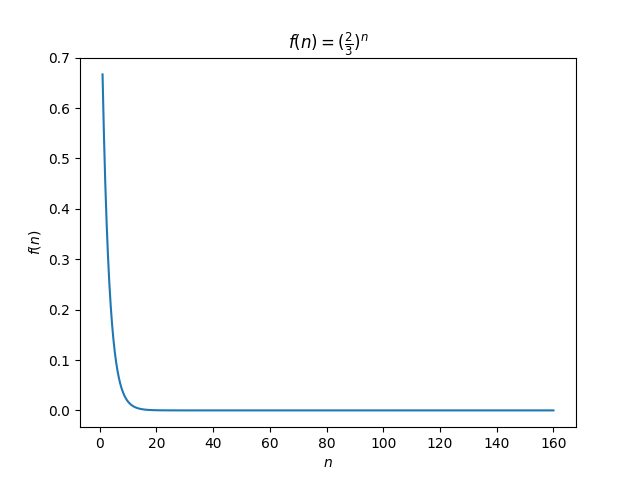
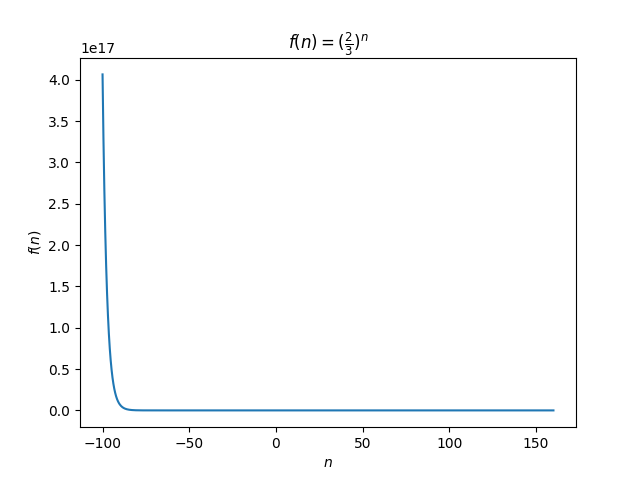
added the queue

diff --git a/n_sequence.py b/n_sequence.py
@@ -8,7 +8,7 @@ import os
 
 import matplotlib.pyplot as plt
 import numpy as np
-from numpy import void
+from numpy import mat, void
 
 
 class NSequence:
@@ -45,13 +45,16 @@ class NSequence:
 
         return result
 
-    @staticmethod
-    def power(base, exponent):
+    def power(self, base, exponent) -> float:
         """
         Calculates the power of a given base by a given exponent.
         Useful for negative exponents.
         """
-        return cmath.exp(exponent * cmath.log(base))
+        if exponent >= 0:
+            return math.pow(base, exponent)
+
+        denominator = math.pow(base, abs(exponent))
+        return self.safely_divide(1, denominator)
 
     def f_1(self, _n) -> float:
         """
@@ -62,10 +65,6 @@ class NSequence:
         _numerator = 2
         _denominator = 3
         _base = self.safely_divide(_numerator, _denominator)
-
-        if _n >= 0:
-            return math.pow(_base, _n)
-
         return self.power(_base, _n)
 
     def f_2(self, _n) -> float:
@@ -74,9 +73,7 @@ class NSequence:
         Parameters:
         n (int or float): n
         """
-        _numerator = math.pow(_n, 3)
-        if _n >= 0:
-            _denominator = math.pow(2, _n)
+        _numerator = self.power(_n, 3)
         _denominator = self.power(2, _n)
         return self.safely_divide(_numerator, _denominator)
 
@@ -89,21 +86,17 @@ class NSequence:
         _numerator = _n + 1
         _denominator = _n
         _base = self.safely_divide(_numerator, _denominator)
-        if _n >= 0:
-            return math.pow(_base, _n)
         return self.power(_base, _n)
 
     def f_4(self, _n) -> float:
         """
-        Calculates a sequence on n. f_n = (1+(5/n))^n\n
+        Calculates a sequence on n. f_n = (1+5/n)^n\n
         Parameters:
         n (int or float): n
         """
         _numerator = 5
         _denominator = _n
         _base = self.safely_divide(_numerator, _denominator)
-        if _n >= 0:
-            return math.pow(1 + _base, _n)
         return self.power(1 + _base, _n)
 
     fn_to_string_dict = {

diff --git a/main.py b/main.py
@@ -5,9 +5,9 @@ from n_sequence import NSequence
 
 # N sequence
 n_seq = NSequence()
-n_seq.plot_function("f_1", 1, 160)
-n_seq.plot_function("f_2", 1, 160)
-n_seq.plot_function("f_3", 1, 160)
-n_seq.plot_function("f_4", 1, 260)
+# n_seq.plot_function("f_1", -100, 160)
+# n_seq.plot_function("f_2", -100, 160)
+n_seq.plot_function("f_3", -100, 160)
+# n_seq.plot_function("f_4", -100, 260)
 
 # fibonacci
